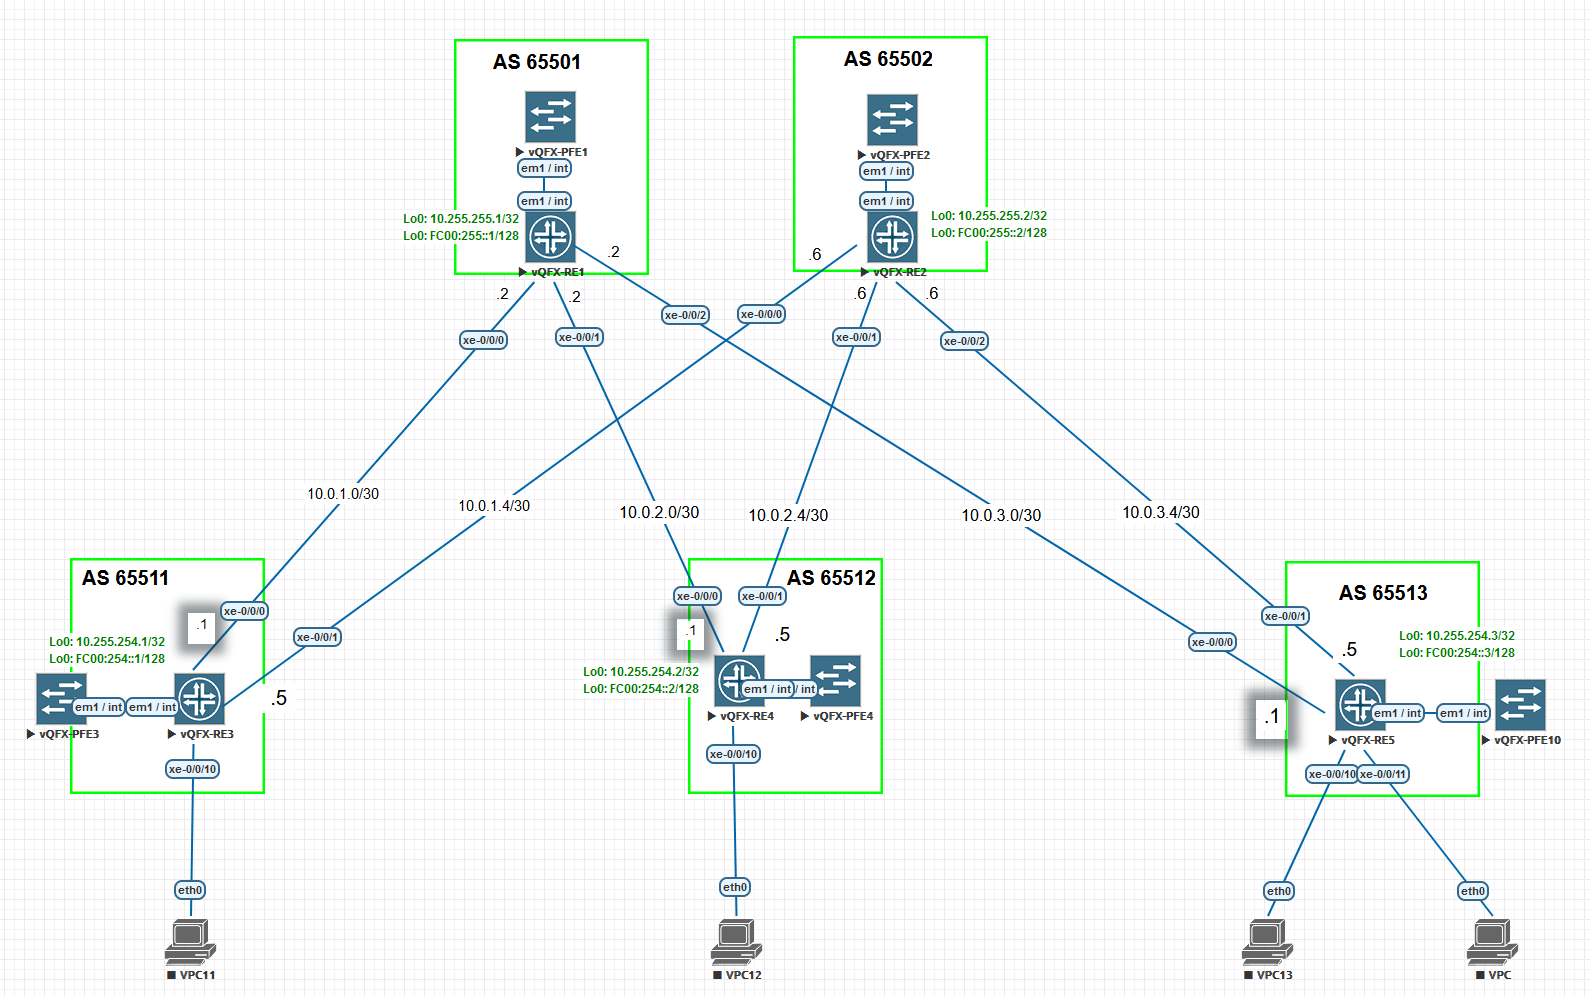
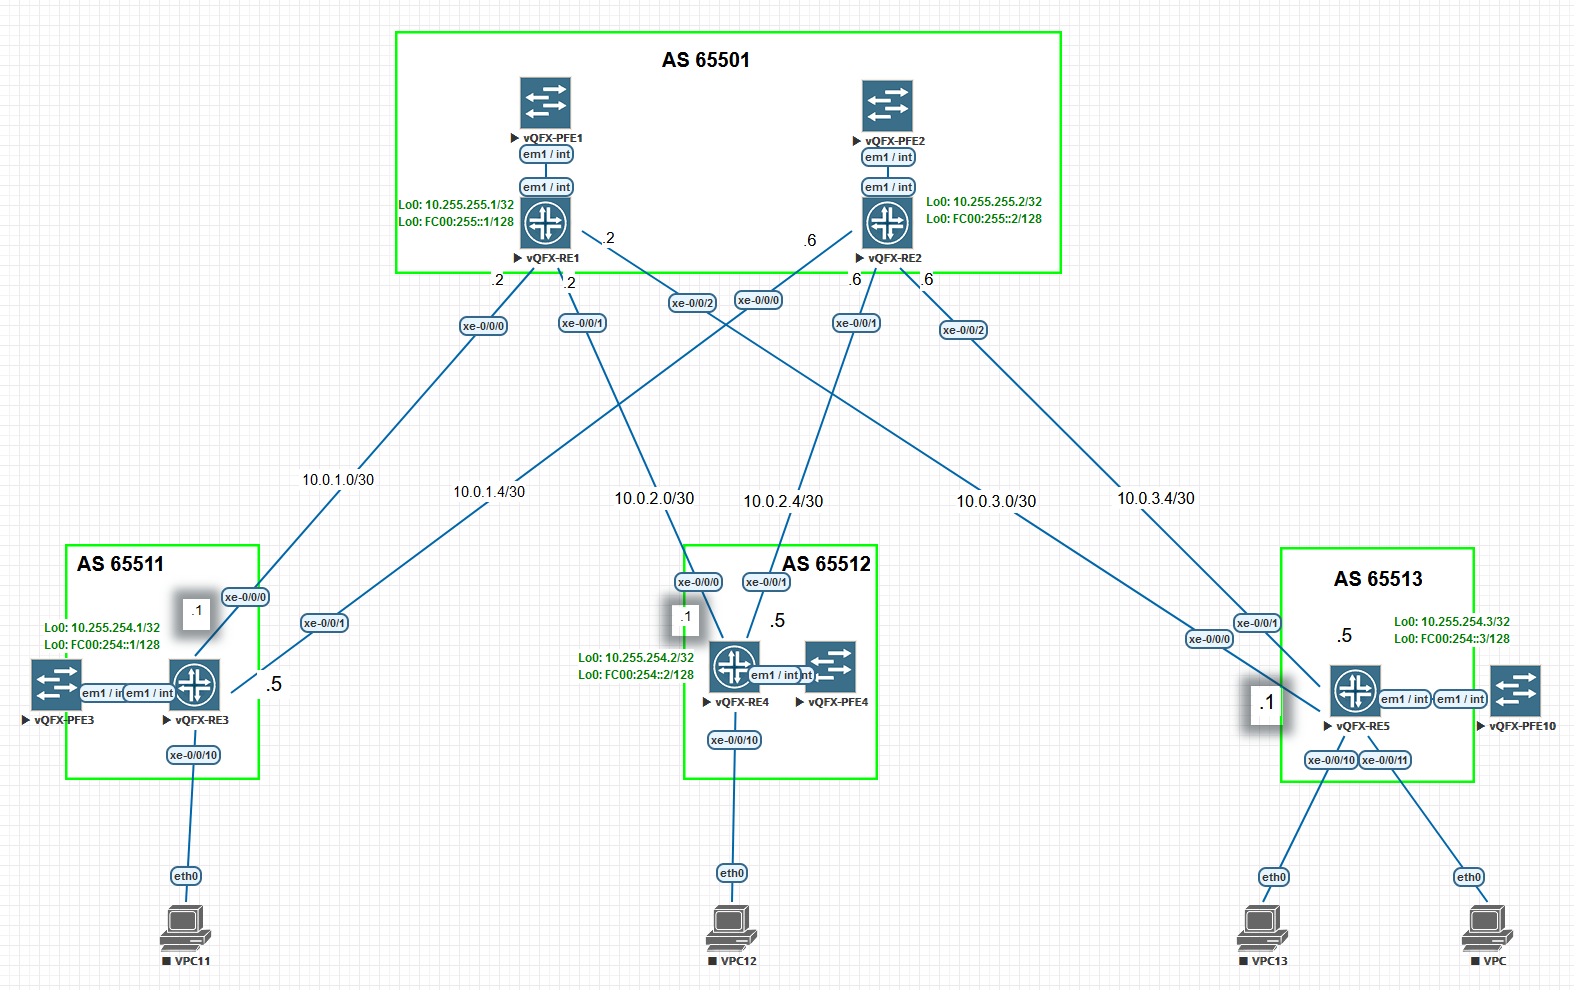
eBGP - underlay

diff --git a/README.md b/README.md
@@ -17,8 +17,9 @@
 ```
 set protocols bgp group UNDERLAY type external
 set protocols bgp group UNDERLAY local-as 65511
-set protocols bgp group UNDERLAY neighbor 10.0.1.2 peer-as 65501
-set protocols bgp group UNDERLAY neighbor 10.0.1.6 peer-as 65502
+set protocols bgp group UNDERLAY peer-as 65501
+set protocols bgp group UNDERLAY neighbor 10.0.1.2
+set protocols bgp group UNDERLAY neighbor 10.0.1.6
 set protocols bgp group UNDERLAY hold-time 10
 set protocols bgp group UNDERLAY family inet unicast
 set protocols bgp group UNDERLAY multipath multiple-as
@@ -43,11 +44,6 @@ set protocols bgp group UNDERLAY hold-time 10
 set protocols bgp group UNDERLAY family inet unicast
 set protocols bgp group UNDERLAY multipath multiple-as
 
-set policy-options policy-statement BGP_LOOPBACK0 term TERM1 from protocol direct
-set policy-options policy-statement BGP_LOOPBACK0 term TERM1 from route-filter 0.0.0.0/0 prefix-length-range /32-/32
-set policy-options policy-statement BGP_LOOPBACK0 term TERM1 then accept
-set protocols bgp group UNDERLAY export BGP_LOOPBACK0
-
 set policy-options policy-statement PFE-ECMP then load-balance per-packet
 set routing-options forwarding-table export PFE-ECMP
 ```
@@ -57,11 +53,11 @@ set routing-options forwarding-table export PFE-ECMP
 root@leaf-3> show bgp summary 
 Groups: 1 Peers: 2 Down peers: 0
 Table          Tot Paths  Act Paths Suppressed    History Damp State    Pending
-inet.0               
-                       8          6          0          0          0          0
+inet.0
+                       4          4          0          0          0          0
 Peer                     AS      InPkt     OutPkt    OutQ   Flaps Last Up/Dwn State|#Active/Received/Accepted/Damped...
-10.0.3.2              65501        459        458       0       0       20:33 3/4/4/0              0/0/0/0
-10.0.3.6              65502        459        459       0       0       20:29 3/4/4/0              0/0/0/0
+10.0.3.2              65501        181        177       0       0        8:55 2/2/2/0              0/0/0/0
+10.0.3.6              65501         19         17       0       0          44 2/2/2/0              0/0/0/0
 ```
 
 Пример вывода BGP соседств со spine-1
@@ -69,88 +65,56 @@ Peer                     AS      InPkt     OutPkt    OutQ   Flaps Last Up/Dwn St
 root@spine-1> show bgp summary 
 Groups: 1 Peers: 3 Down peers: 0
 Table          Tot Paths  Act Paths Suppressed    History Damp State    Pending
-inet.0               
-                       6          6          0          0          0          0
+inet.0
+                       3          3          0          0          0          0
 Peer                     AS      InPkt     OutPkt    OutQ   Flaps Last Up/Dwn State|#Active/Received/Accepted/Damped...
-10.0.1.1              65511        636        634       0       0       28:28 2/2/2/0              0/0/0/0
-10.0.2.1              65512        490        489       0       0       21:52 2/2/2/0              0/0/0/0
-10.0.3.1              65513        471        470       0       0       21:03 2/2/2/0              0/0/0/0
+10.0.1.1              65511        294        262       0       0       13:07 1/1/1/0              0/0/0/0
+10.0.2.1              65512        163        165       0       0        8:13 1/1/1/0              0/0/0/0
+10.0.3.1              65513        181        183       0       0        9:08 1/1/1/0              0/0/0/0
 ```
 
 Таблица маршрутизации протокола BGP
 ```
 {master:0}
 root@leaf-3> show route protocol bgp    
-
-inet.0: 11 destinations, 15 routes (11 active, 0 holddown, 0 hidden)
+inet.0: 9 destinations, 11 routes (9 active, 0 holddown, 0 hidden)
 + = Active Route, - = Last Active, * = Both
 
-10.255.254.1/32    *[BGP/170] 00:06:47, localpref 100, from 10.0.3.2
+10.255.254.1/32    *[BGP/170] 00:01:11, localpref 100, from 10.0.3.2
                       AS path: 65501 65511 I, validation-state: unverified
                       to 10.0.3.2 via xe-0/0/0.0
                     > to 10.0.3.6 via xe-0/0/1.0
-                    [BGP/170] 00:06:47, localpref 100
-                      AS path: 65502 65511 I, validation-state: unverified
+                    [BGP/170] 00:01:11, localpref 100
+                      AS path: 65501 65511 I, validation-state: unverified
                     > to 10.0.3.6 via xe-0/0/1.0
-10.255.254.2/32    *[BGP/170] 00:06:47, localpref 100, from 10.0.3.2
+10.255.254.2/32    *[BGP/170] 00:01:12, localpref 100, from 10.0.3.2
                       AS path: 65501 65512 I, validation-state: unverified
                       to 10.0.3.2 via xe-0/0/0.0
                     > to 10.0.3.6 via xe-0/0/1.0
-                    [BGP/170] 00:06:47, localpref 100
-                      AS path: 65502 65512 I, validation-state: unverified
+                    [BGP/170] 00:01:12, localpref 100
+                      AS path: 65501 65512 I, validation-state: unverified
                     > to 10.0.3.6 via xe-0/0/1.0
-10.255.255.1/32    *[BGP/170] 00:00:23, localpref 100
-                      AS path: 65501 I, validation-state: unverified
-                    > to 10.0.3.2 via xe-0/0/0.0
-                    [BGP/170] 00:00:23, localpref 100
-                      AS path: 65502 65512 65501 I, validation-state: unverified
-                    > to 10.0.3.6 via xe-0/0/1.0
-10.255.255.2/32    *[BGP/170] 00:00:04, localpref 100
-                      AS path: 65502 I, validation-state: unverified
-                    > to 10.0.3.6 via xe-0/0/1.0
-                    [BGP/170] 00:00:04, localpref 100
-                      AS path: 65501 65511 65502 I, validation-state: unverified
-                    > to 10.0.3.2 via xe-0/0/0.0
 ```
 
 Доступность Leaf-1, Leaf-2, Spine-1, Spine-2 с Leaf-3
 ```
 {master:0}
-root@leaf-3> ping 10.255.254.1 source 10.255.254.3 count 1 
+root@leaf-3> ping 10.255.254.1 source 10.255.254.3 count 1
 PING 10.255.254.1 (10.255.254.1): 56 data bytes
-64 bytes from 10.255.254.1: icmp_seq=0 ttl=63 time=367.099 ms
+64 bytes from 10.255.254.1: icmp_seq=0 ttl=63 time=296.561 ms
 
 --- 10.255.254.1 ping statistics ---
 1 packets transmitted, 1 packets received, 0% packet loss
-round-trip min/avg/max/stddev = 367.099/367.099/367.099/0.000 ms
+round-trip min/avg/max/stddev = 296.561/296.561/296.561/0.000 ms
 
 {master:0}
-root@leaf-3> ping 10.255.254.2 source 10.255.254.3 count 1    
+root@leaf-3> ping 10.255.254.2 source 10.255.254.3 count 1
 PING 10.255.254.2 (10.255.254.2): 56 data bytes
-64 bytes from 10.255.254.2: icmp_seq=0 ttl=63 time=401.580 ms
+64 bytes from 10.255.254.2: icmp_seq=0 ttl=63 time=311.989 ms
 
 --- 10.255.254.2 ping statistics ---
 1 packets transmitted, 1 packets received, 0% packet loss
-round-trip min/avg/max/stddev = 401.580/401.580/401.580/0.000 ms
-
-{master:0}
-root@leaf-3> ping 10.255.255.1 source 10.255.254.3 count 1    
-PING 10.255.255.1 (10.255.255.1): 56 data bytes
-64 bytes from 10.255.255.1: icmp_seq=0 ttl=64 time=244.244 ms
-
---- 10.255.255.1 ping statistics ---
-1 packets transmitted, 1 packets received, 0% packet loss
-round-trip min/avg/max/stddev = 244.244/244.244/244.244/0.000 ms
-
-{master:0}
-root@leaf-3> ping 10.255.255.2 source 10.255.254.3 count 1    
-PING 10.255.255.2 (10.255.255.2): 56 data bytes
-64 bytes from 10.255.255.2: icmp_seq=0 ttl=64 time=226.399 ms
-
---- 10.255.255.2 ping statistics ---
-1 packets transmitted, 1 packets received, 0% packet loss
-round-trip min/avg/max/stddev = 226.399/226.399/226.399/0.000 ms
-
+round-trip min/avg/max/stddev = 311.989/311.989/311.989/0.000 ms
 ```
 
 Multipath работает
@@ -158,11 +122,11 @@ Multipath работает
 {master:0}
 root@leaf-3> show route 10.255.254.1 detail 
 
-inet.0: 11 destinations, 15 routes (11 active, 0 holddown, 0 hidden)
+inet.0: 9 destinations, 11 routes (9 active, 0 holddown, 0 hidden)
 10.255.254.1/32 (2 entries, 1 announced)
         *BGP    Preference: 170/-101
                 Next hop type: Router, Next hop index: 0
-                Address: 0xb218610
+                Address: 0xb21bb10
                 Next-hop reference count: 3
                 Source: 10.0.3.2
                 Next hop: 10.0.3.2 via xe-0/0/0.0
@@ -171,28 +135,28 @@ inet.0: 11 destinations, 15 routes (11 active, 0 holddown, 0 hidden)
                 Session Id: 0x0
                 State: <Active Ext>
                 Peer AS: 65501
-                Age: 9:26 
-                Validation State: unverified 
+                Age: 2:18
+                Validation State: unverified
                 Task: BGP_65501_65513.10.0.3.2
-                Announcement bits (3): 0-KRT 1-BGP_Listen.0.0.0.0+179 2-BGP_RT_Background 
+                Announcement bits (2): 0-KRT 1-BGP_Listen.0.0.0.0+179
                 AS path: 65501 65511 I
                 Accepted Multipath
                 Localpref: 100
                 Router ID: 10.255.255.1
-         BGP    Preference: 170/-101    
-                Next hop type: Router, Next hop index: 1741
-                Address: 0xb3a1b70
-                Next-hop reference count: 6
+         BGP    Preference: 170/-101
+                Next hop type: Router, Next hop index: 1740
+                Address: 0xb3a1630
+                Next-hop reference count: 3
                 Source: 10.0.3.6
                 Next hop: 10.0.3.6 via xe-0/0/1.0, selected
                 Session Id: 0x0
-                State: <Ext>
-                Inactive reason: Active preferred
-                Peer AS: 65502
-                Age: 9:26 
-                Validation State: unverified 
-                Task: BGP_65502_65513.10.0.3.6
-                AS path: 65502 65511 I
+                State: <NotBest Ext>
+                Inactive reason: Not Best in its group - Active preferred
+                Peer AS: 65501
+                Age: 2:18
+                Validation State: unverified
+                Task: BGP_65501_65513.10.0.3.6
+                AS path: 65501 65511 I
                 Accepted MultipathContrib
                 Localpref: 100
                 Router ID: 10.255.255.2
@@ -202,13 +166,15 @@ inet.0: 11 destinations, 15 routes (11 active, 0 holddown, 0 hidden)
 root@leaf-3> show route forwarding-table destination 10.255.254.1 
 Routing table: default.inet
 Internet:
-Enabled protocols: Bridging, 
+Enabled protocols: Bridging,
 Destination        Type RtRef Next hop           Type Index    NhRef Netif
 10.255.254.1/32    user     0                    ulst   131070     3
-                              10.0.3.2           ucst     1739     5 xe-0/0/0.0
-                              10.0.3.6           ucst     1741     5 xe-0/0/1.0
+                              10.0.3.2           ucst     1739     4 xe-0/0/0.0
+                              10.0.3.6           ucst     1740     5 xe-0/0/1.0
 ```
 
 [JunOS BGP multipath](https://www.juniper.net/documentation/us/en/software/junos/bgp/topics/topic-map/load-balancing-bgp-session.html)
 
 [IP Fabric Underlay Network Design and Implementation](https://www.juniper.net/documentation/us/en/software/nce/sg-005-data-center-fabric/topics/task/ip-fabric-underlay-cloud-dc-configuring.html)
+
+[RFC-7938](https://datatracker.ietf.org/doc/html/rfc7938)
